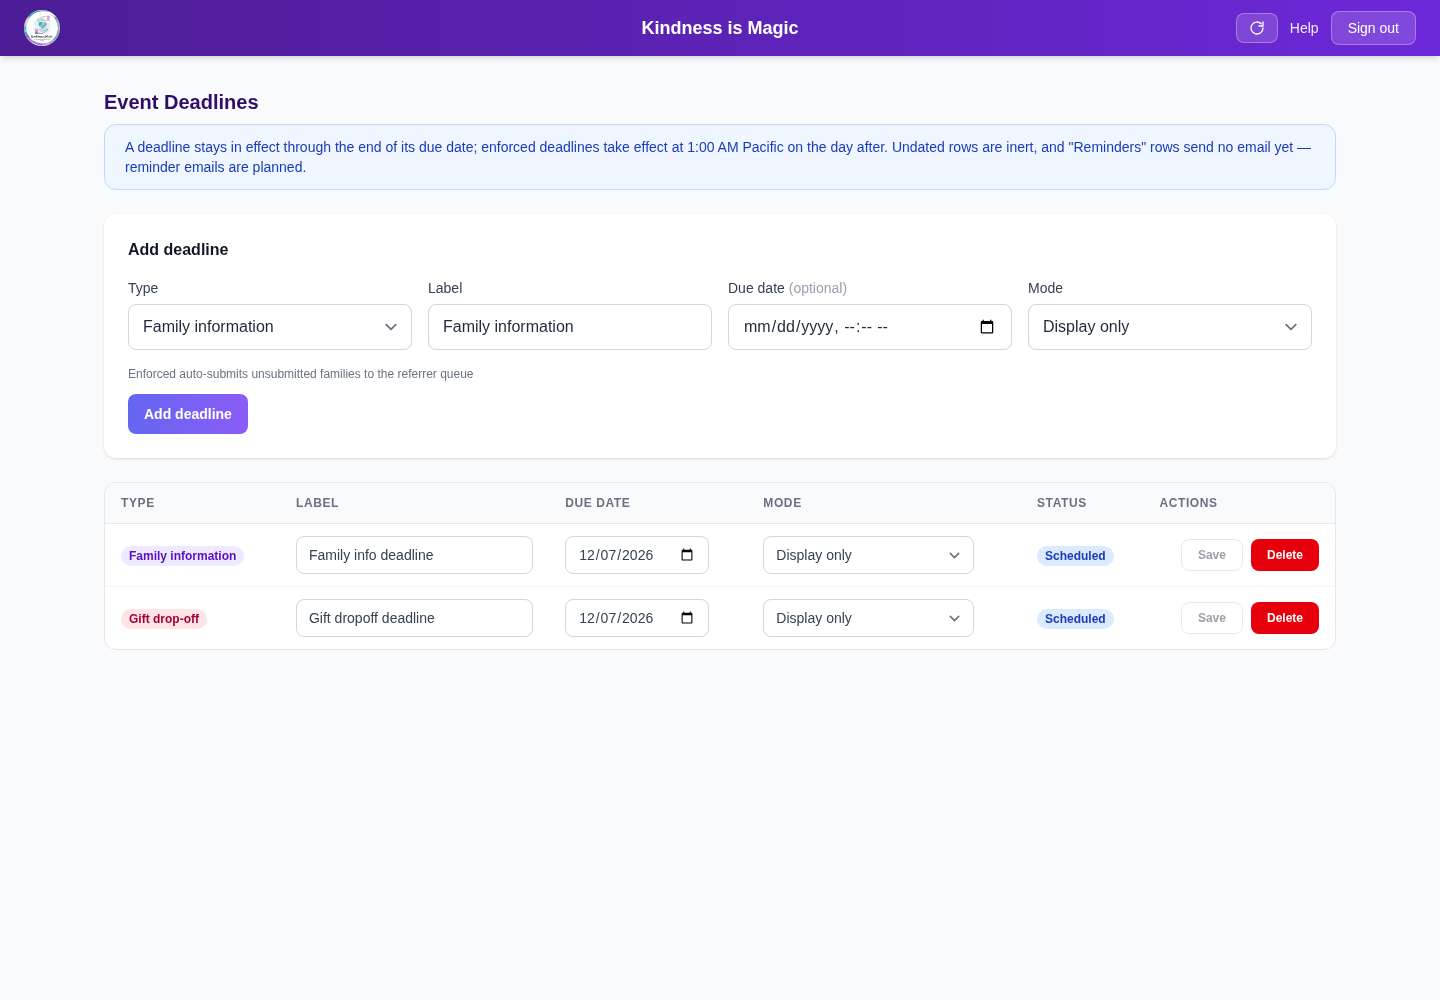
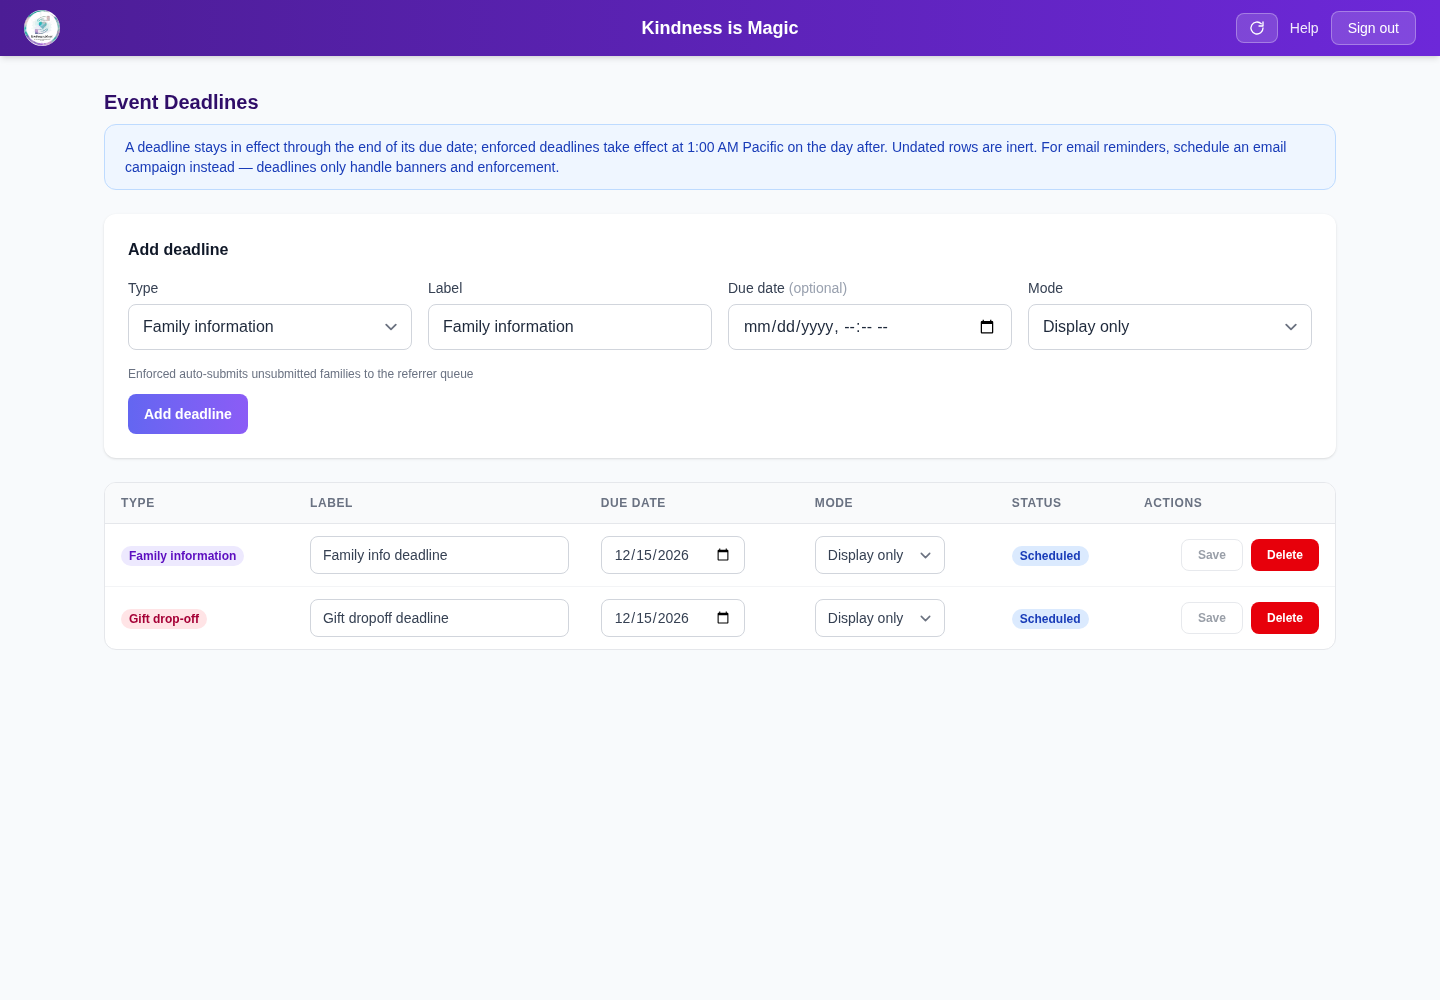
removed the remind deadline mode; covered by scheduled emails

diff --git a/e2e/tests/admin-deadlines.spec.ts b/e2e/tests/admin-deadlines.spec.ts
@@ -7,8 +7,8 @@
  * delete as a safety net for partial failure (describe.serial skips the
  * remaining tests after a failure, which would otherwise strand the row).
  *
- * Only `display` and `remind` modes are exercised. `enforced` rows change
- * live app behaviour (claim gates, auto-promotion) and would race other
+ * Only the `display` mode is exercised. `enforced` rows change live app
+ * behaviour (claim gates, auto-promotion once armed) and would race other
  * tests' data, so they stay out of e2e — backend tests cover them, and
  * deadlines-banner.spec.ts gives the same reasoning for the banner
  * (display-channel) coverage.
@@ -115,15 +115,15 @@ test.describe.serial("Admin Deadlines — settings page", () => {
     const saveButton = row.getByRole("button", { name: "Save" });
     await expect(saveButton).toBeDisabled();
 
-    /* Mode → Reminders (banner-inert), due date → yesterday */
-    await row.locator("select").selectOption({ label: "Reminders (no email yet)" });
+    /* Due date → yesterday (mode stays Display only — a past-dated enforced
+       row would arm and change live behaviour, so e2e keeps it out) */
     await row.locator('input[type="date"]').fill(PAST_DATE);
     await expect(saveButton).toBeEnabled();
 
     await saveButton.click();
     await expect(page.getByText("Deadline saved", { exact: true })).toBeVisible();
 
-    await expect(row.locator("select")).toHaveValue("remind");
+    await expect(row.locator("select")).toHaveValue("display");
     await expect(row.locator('input[type="date"]')).toHaveValue(PAST_DATE);
     await expect(row.getByText("Past due", { exact: true })).toBeVisible();
 

diff --git a/frontend/src/lib/deadlines.ts b/frontend/src/lib/deadlines.ts
@@ -1,10 +1,9 @@
 /**
  * Pure helpers for deadline display (banner deadline selection).
  *
- * The banner deadline (per type) is the nearest dated row with mode
- * `display` or `enforced`: earliest future date if any exists, else the most
- * recent past one (renders as "deadline was …"), else none. `remind` rows are
- * the email channel and never feed the banner; undated rows are inert.
+ * The banner deadline (per type) is the nearest dated row: earliest future
+ * date if any exists, else the most recent past one (renders as "deadline
+ * was …"), else none. Undated rows are inert.
  */
 
 import type { Deadline, DeadlineType } from "../types";
@@ -38,10 +37,7 @@ export function localDateKey(date: Date): string {
  */
 export function getBannerDeadline(rows: Deadline[] | null | undefined, type: DeadlineType, now: Date = new Date()): BannerDeadline | null {
   const today = localDateKey(now);
-  const candidates = (rows ?? []).filter(
-    (row): row is Deadline & { due_date: string } =>
-      row.type === type && row.due_date != null && (row.mode === "display" || row.mode === "enforced")
-  );
+  const candidates = (rows ?? []).filter((row): row is Deadline & { due_date: string } => row.type === type && row.due_date != null);
   if (candidates.length === 0) return null;
 
   const future = candidates.filter((row) => row.due_date >= today);

diff --git a/frontend/src/pages/HelpAdmin.tsx b/frontend/src/pages/HelpAdmin.tsx
@@ -358,12 +358,12 @@ export default function HelpAdmin() {
                   sponsorships.
                 </li>
               </ul>
-              <h3>Display, reminders, enforced</h3>
+              <h3>Display and enforced</h3>
               <p>
-                <strong>Display only</strong> and <strong>Enforced</strong> show a banner with your label across the app.
-                <strong>Reminders</strong> is reserved for reminder emails that are planned but not built yet — a reminders row never shows
-                a banner. An enforced deadline's automatic action kicks in at 1:00 AM Pacific on the day after its due date; the banner's
-                deadline day itself stays in effect through the end of that day. A deadline with no due date is inert.
+                <strong>Display only</strong> and <strong>Enforced</strong> show a banner with your label across the app. An enforced
+                deadline's automatic action kicks in at 1:00 AM Pacific on the day after its due date; the banner's deadline day itself
+                stays in effect through the end of that day. A deadline with no due date is inert. Reminder emails are not a deadline mode —
+                schedule an email campaign instead; it targets roles and sends at an exact time.
               </p>
             </>
           ),

diff --git a/frontend/src/pages/AdminDeadlines.tsx b/frontend/src/pages/AdminDeadlines.tsx
@@ -52,7 +52,6 @@ const DEADLINE_TYPES = Object.keys(DEADLINE_TYPE_META) as DeadlineType[];
 
 const MODE_OPTIONS: { value: DeadlineMode; label: string }[] = [
   { value: "display", label: "Display only" },
-  { value: "remind", label: "Reminders (no email yet)" },
   { value: "enforced", label: "Enforced" },
 ];
 
@@ -161,7 +160,7 @@ export default function AdminDeadlines() {
 
         <div className="mb-6 rounded-xl border border-blue-200 bg-blue-50 px-5 py-3 text-sm text-blue-800">
           A deadline stays in effect through the end of its due date; enforced deadlines take effect at 1:00 AM Pacific on the day after.
-          Undated rows are inert, and "Reminders" rows send no email yet — reminder emails are planned.
+          Undated rows are inert. For email reminders, schedule an email campaign instead — deadlines only handle banners and enforcement.
         </div>
 
         <CreateDeadlineForm onSubmit={(payload) => createMut.mutate(payload)} loading={createMut.isPending} />

diff --git a/frontend/src/lib/deadlines.test.ts b/frontend/src/lib/deadlines.test.ts
@@ -83,18 +83,6 @@ describe("getBannerDeadline", () => {
     expect(result).toEqual({ label: "Family information", dueDate: "2026-12-01", status: "upcoming" });
   });
 
-  it("ignores remind rows (the email channel never feeds the banner)", () => {
-    expect(getBannerDeadline([makeDeadline({ mode: "remind", due_date: "2026-12-15" })], "family_info", NOW)).toBeNull();
-
-    // A remind row must not shadow a past enforced row either.
-    const result = getBannerDeadline(
-      [makeDeadline({ id: 1, mode: "remind", due_date: "2026-12-15" }), makeDeadline({ id: 2, mode: "enforced", due_date: "2026-05-02" })],
-      "family_info",
-      NOW
-    );
-    expect(result).toEqual({ label: "Family information", dueDate: "2026-05-02", status: "past" });
-  });
-
   it("ignores undated rows (they are inert)", () => {
     expect(getBannerDeadline([makeDeadline({ due_date: null })], "family_info", NOW)).toBeNull();
   });

diff --git a/frontend/src/types/tiles.ts b/frontend/src/types/tiles.ts
@@ -68,7 +68,7 @@ export const DASHBOARD_TILES: Record<string, DashboardTileDef[]> = {
       route: ROUTES.ADMIN_DEADLINES,
       icon: "📅",
       label: "Deadlines",
-      desc: "Event deadlines: banners, reminders & enforcement",
+      desc: "Event deadlines: banners & enforcement",
       visible: true,
     },
     { key: "wishes", route: ROUTES.ADMIN_WISHES, icon: "🎁", label: "Manage Wishes", desc: "Assign & track gift purchases", visible: true },

diff --git a/frontend/src/types/domain.ts b/frontend/src/types/domain.ts
@@ -1130,7 +1130,7 @@ export interface FamilyClaimUpdate {
 export type DeadlineType = "family_info" | "referrer_review" | "gift_dropoff";
 
 /** Mirrors backend DeadlineMode enum. */
-export type DeadlineMode = "display" | "remind" | "enforced";
+export type DeadlineMode = "display" | "enforced";
 
 /** Mirrors backend DeadlineItem — one deadline row (shared public/admin shape). */
 export interface Deadline {

diff --git a/backend/alembic/versions/b13c4344f1a6_remove_remind_deadline_mode.py b/backend/alembic/versions/b13c4344f1a6_remove_remind_deadline_mode.py
@@ -1,0 +1,42 @@
+"""remove the remind deadline mode
+
+Revision ID: b13c4344f1a6
+Revises: b3e7a91c4d2f
+Create Date: 2026-02-14 09:00:00.000000
+
+"""
+
+from typing import Sequence, Union
+
+from alembic import op
+
+
+# revision identifiers, used by Alembic.
+revision: str = "b13c4344f1a6"
+down_revision: Union[str, None] = "b3e7a91c4d2f"
+branch_labels: Union[str, Sequence[str], None] = None
+depends_on: Union[str, Sequence[str], None] = None
+
+
+def upgrade() -> None:
+    # Postgres cannot remove a value from an existing enum type — recreate
+    # the type without 'remind'. The USING cast aborts the migration (and
+    # rolls back) if any row still holds 'remind', so a stale row can never
+    # be silently lost. Reminder emails are scheduled email campaigns, not
+    # deadline rows. The column's server default is typed to the old enum,
+    # so it must be dropped before the retyping and re-added after.
+    op.execute("CREATE TYPE deadline_mode_new AS ENUM ('display', 'enforced')")
+    op.execute("ALTER TABLE deadlines ALTER COLUMN mode DROP DEFAULT")
+    op.execute("ALTER TABLE deadlines ALTER COLUMN mode TYPE deadline_mode_new USING mode::text::deadline_mode_new")
+    op.execute("ALTER TABLE deadlines ALTER COLUMN mode SET DEFAULT 'display'")
+    op.execute("DROP TYPE deadline_mode")
+    op.execute("ALTER TYPE deadline_mode_new RENAME TO deadline_mode")
+
+
+def downgrade() -> None:
+    op.execute("CREATE TYPE deadline_mode_new AS ENUM ('display', 'remind', 'enforced')")
+    op.execute("ALTER TABLE deadlines ALTER COLUMN mode DROP DEFAULT")
+    op.execute("ALTER TABLE deadlines ALTER COLUMN mode TYPE deadline_mode_new USING mode::text::deadline_mode_new")
+    op.execute("ALTER TABLE deadlines ALTER COLUMN mode SET DEFAULT 'display'")
+    op.execute("DROP TYPE deadline_mode")
+    op.execute("ALTER TYPE deadline_mode_new RENAME TO deadline_mode")

diff --git a/backend/tests/test_deadlines.py b/backend/tests/test_deadlines.py
@@ -351,9 +351,8 @@ class TestArmedCheck:
         _seed_deadline(db, DeadlineType.family_info, DeadlineMode.enforced, FUTURE_DUE)
         assert is_type_armed(db, DeadlineType.family_info) is False
 
-    @pytest.mark.parametrize("mode", [DeadlineMode.display, DeadlineMode.remind])
-    def test_not_armed_by_display_or_remind_rows(self, db: Session, mode: DeadlineMode):
-        _seed_deadline(db, DeadlineType.gift_dropoff, mode, PAST_DUE)
+    def test_not_armed_by_display_row(self, db: Session):
+        _seed_deadline(db, DeadlineType.gift_dropoff, DeadlineMode.display, PAST_DUE)
         assert is_type_armed(db, DeadlineType.gift_dropoff) is False
 
     def test_not_armed_by_undated_enforced_row(self, db: Session):
@@ -615,11 +614,10 @@ class TestGiftClaimGate:
         assert resp.status_code == 201
         assert resp.json()["commitment_type"] == "gifts"
 
-    def test_display_and_remind_rows_do_not_block(self, test_client: TestClient, db: Session, admin_user):
+    def test_display_rows_do_not_block(self, test_client: TestClient, db: Session, admin_user):
         _admin_login(test_client)
         fam = _create_claimable_family(db)
         _create_deadline(test_client, type="gift_dropoff", label="Display", due_date=PAST_DUE, mode="display")
-        _create_deadline(test_client, type="gift_dropoff", label="Remind", due_date=PAST_DUE, mode="remind")
         _create_user(test_client, "freeclaim@test.com", "donor")
         login_as(test_client, "freeclaim@test.com", ROLE_PASSWORD)
 

diff --git a/backend/app/models.py b/backend/app/models.py
@@ -690,22 +690,21 @@ class DeadlineMode(str, enum.Enum):
     """What a dated deadline row does.
 
     * ``display`` — banner on that date (visual channel).
-    * ``remind`` — reminder emails for that type on that date (planned
-      follow-up); a remind row is never shown in a banner and triggers
-      nothing for now.
     * ``enforced`` — banner, plus the type's enforced action once the
       cutoff (01:00 Pacific the day after the due date) has passed.
+
+    Reminder emails are not a deadline mode — schedule an email campaign
+    for those (it targets roles and sends at an exact time).
     """
 
     display = "display"
-    remind = "remind"
     enforced = "enforced"
 
 
 class Deadline(Base):
     """Admin-configured event deadline.
 
-    Multiple rows per type are allowed (e.g. a reminder deadline a week
+    Multiple rows per type are allowed (e.g. a display heads-up a week
     before the enforced one). An undated row is inert everywhere. No
     ``deleted_at`` — deletion is a hard delete: a deadline is a trivially
     re-creatable config row that nothing references, so the soft-delete

diff --git a/backend/app/email_campaigns.py b/backend/app/email_campaigns.py
@@ -186,8 +186,7 @@ def create_campaign(
     exceeds the cap), and adds the campaign + recipient rows.
     ``scheduled_for`` (NULL = send ASAP) is the earliest send time — the
     worker skips the campaign until it is due. Does **not** commit — the
-    caller (the admin route, or a future background caller such as the
-    remind deadline hook) owns the transaction.
+    caller (the admin route, or a future background caller) owns the transaction.
     """
     recipients = _resolve_recipients_or_raise(db, roles, extra_emails)
 

diff --git a/backend/app/deadlines.py b/backend/app/deadlines.py
@@ -56,7 +56,7 @@ def deadline_cutoff(due_date: date) -> datetime:
 def is_type_armed(db: Session, dl_type: DeadlineType, now: datetime | None = None) -> bool:
     """True if any enforced, dated row of this type is at or past its cutoff.
 
-    ``display``/``remind`` rows and undated rows never arm a type. A type
+    ``display`` rows and undated rows never arm a type. A type
     with multiple enforced rows arms when the *first* cutoff passes.
     """
     now = now or datetime.now(timezone.utc)
